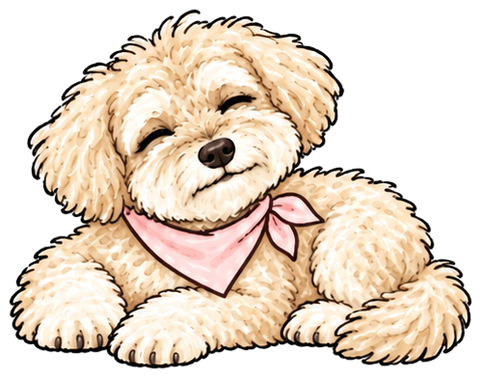
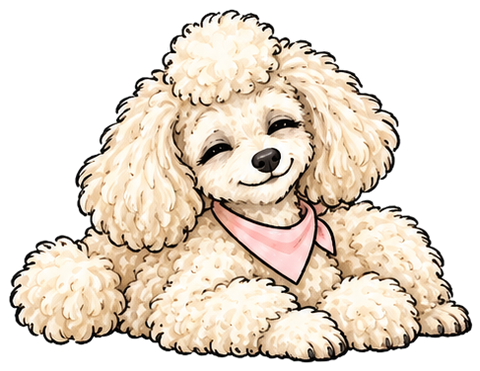
なかまを 12ひきに（トイプードルを かきなおし、ねこ・うさぎ・くま・パンダ・きつね・ハムスター・ひつじ・ぞう を たす）。いぬ いがいは しっぽの 文を つかわない

diff --git a/app.js b/app.js
@@ -30,6 +30,8 @@ function pic(src, emoji, cls = '', alt = '') {
   img.onerror = () => (window.__missing ||= []).push(src) && img.replaceWith(h('span', { class: cls + ' emoji', 'aria-hidden': 'true' }, emoji || '❓'));
   return img;
 }
+// いぬ いがいは しっぽの 文を つかわない
+const seeOf = (e) => (DOGS[S.dog].dog ? e.see : e.seeAny || e.see);
 const dogImg = (emo, cls = 'dog') => pic(`art/dogs/${DOGS[S.dog].id}_${emo}.png`, '🐶', cls, `${DOGS[S.dog].name}（${EMOTIONS.find((e) => e.id === emo)?.word || ''}）`);
 const itemImg = (it, cls = 'icon') => pic(`art/items/${it.id}.png`, it.emoji, cls, '');
 const avatarImg = (i, cls = 'avatar') => (i < 0 ? h('span', { class: cls + ' emoji' }, '🙂') : pic(`art/avatars/a${i}.png`, '🙂', cls, 'じぶん'));
@@ -248,13 +250,13 @@ ROUTES.title = () => {
     h('div', { class: 'hello' }, dogImg('happy', 'dog greet'),
       h('p', { class: 'bubble' }, `${name}こんにちは！ ${DOGS[S.dog].name}だよ。`, h('br'), 'きょうは なにを する？')),
     h('nav', { class: 'menu4' },
-      menuBtn('きもちを よもう', 'いぬの かおを みてみよう', 'tile_emotions', 'emotions', 'c1'),
+      menuBtn('きもちを よもう', 'なかまの かおを みてみよう', 'tile_emotions', 'emotions', 'c1'),
       menuBtn('れんしゅう しよう', 'びょういんや はいしゃ', 'tile_practice', 'scenes', 'c2'),
       menuBtn('じぶん ノート', 'すきな ことを かこう', 'tile_note', 'note', 'c3'),
       menuBtn('きょうの よてい', 'えで ならべよう', 'tile_plan', 'plan', 'c4')),
     h('div', { class: 'sub2' },
       h('button', { class: 'wide-card', onclick: () => go('shop') }, pic('art/ui/tile_shop.jpg', '', 'wide-img'), h('span', {}, h('b', {}, 'ショップ'), h('small', {}, 'スターで かえるよ'))),
-      h('button', { class: 'wide-card', onclick: () => go('dogs') }, dogImg('happy', 'wide-img dogface'), h('span', {}, h('b', {}, 'いぬを えらぶ'), h('small', {}, `いまは ${DOGS[S.dog].name}`)))),
+      h('button', { class: 'wide-card', onclick: () => go('dogs') }, dogImg('happy', 'wide-img dogface'), h('span', {}, h('b', {}, 'なかまを えらぶ'), h('small', {}, `いまは ${DOGS[S.dog].name}`)))),
     h('button', { class: 'parent-btn', ...hold }, ic('gear'), 'おうちの ひと・スタッフ', h('small', {}, '（ながおし）')));
 };
 function menuBtn(label, sub, tile, route, cls) {
@@ -273,9 +275,9 @@ function longPress(fn) {
   return { onpointerdown: start, onpointerup: stop, onpointerleave: stop, onpointercancel: stop, oncontextmenu: (e) => e.preventDefault() };
 }
 
-// ---------- いぬを えらぶ ----------
-ROUTES.dogs = () => h('div', { class: 'screen' }, bar('いぬを えらぶ'),
-  h('p', { class: 'lead' }, 'いっしょに れんしゅう する いぬを えらんでね。'),
+// ---------- なかまを えらぶ ----------
+ROUTES.dogs = () => h('div', { class: 'screen' }, bar('なかまを えらぶ'),
+  h('p', { class: 'lead' }, 'いっしょに れんしゅう する なかまを えらんでね。'),
   h('div', { class: 'grid2' }, DOGS.map((d, i) => h('button', {
     class: 'card pick' + (S.dog === i ? ' on' : ''), 'aria-pressed': S.dog === i ? 'true' : 'false',
     onclick: () => { S.dog = i; save(); chime('soft'); speak(`${d.name}だよ。よろしくね`); go('dogs', null, true); },
@@ -284,7 +286,7 @@ ROUTES.dogs = () => h('div', { class: 'screen' }, bar('いぬを えらぶ'),
 // ---------- きもちを よもう ----------
 ROUTES.emotions = () => h('div', { class: 'screen' }, bar('きもちを よもう'),
   h('div', { class: 'hello small' }, dogImg('calm', 'dog mid'),
-    h('p', { class: 'bubble' }, 'いぬの からだを よく みると、きもちの ヒントが あるよ。')),
+    h('p', { class: 'bubble' }, 'からだを よく みると、きもちの ヒントが あるよ。')),
   h('div', { class: 'grid2' },
     h('button', { class: 'card big-choice', onclick: () => go('emoList') }, pic('art/ui/tile_emotions.jpg', '', 'tile-img'), h('b', {}, 'きもちを みる'), h('small', {}, '6つの きもち')),
     h('button', { class: 'card big-choice', onclick: () => go('quiz') }, dogImg('surprised', 'dog mid'), h('b', {}, 'あてっこ'), h('small', {}, 'どの きもちかな？'))));
@@ -297,10 +299,10 @@ ROUTES.emoList = () => h('div', { class: 'screen' }, bar('きもちを みる'),
 ROUTES.emoDetail = (i) => {
   const e = EMOTIONS[i];
   if (!S.emoSeen.includes(i)) { S.emoSeen.push(i); S.emoSeen.sort((a, b) => a - b); setTimeout(() => { award(1); plusToast(1); }, 400); }
-  setTimeout(() => speak(`${e.word}。${e.see}`), 300);
+  setTimeout(() => speak(`${e.word}。${seeOf(e)}`), 300);
   return h('div', { class: 'screen' }, bar(e.word),
     h('div', { class: 'emo-hero', style: `--c:${e.color}` }, dogImg(e.id, 'dog big'), h('h2', { class: 'emo-word' }, e.word)),
-    h('section', { class: 'panel' }, h('h3', {}, ic('eye'), 'ここを みてね'), h('p', {}, e.see), sayBtn(`${e.word}。${e.see}`)),
+    h('section', { class: 'panel' }, h('h3', {}, ic('eye'), 'ここを みてね'), h('p', {}, seeOf(e)), sayBtn(`${e.word}。${seeOf(e)}`)),
     h('section', { class: 'panel soft' }, h('h3', {}, ic('bulb'), 'こんな ときは'), h('p', {}, e.tip), sayBtn(e.tip)),
     h('div', { class: 'row between pager' },
       h('button', { class: 'btn', disabled: i === 0, onclick: () => go('emoDetail', i - 1, true) }, '← まえ'),
@@ -338,7 +340,7 @@ ROUTES.quiz = () => {
           btns.forEach((b) => (b.disabled = true));
           ev.currentTarget.classList.add('right');
           hint.hidden = false; hint.className = 'hint good';
-          hint.textContent = `せいかい！ ${EMOTIONS[ans].word} だね。${EMOTIONS[ans].see}`;
+          hint.textContent = `せいかい！ ${EMOTIONS[ans].word} だね。${seeOf(EMOTIONS[ans])}`;
           speak(`せいかい。${EMOTIONS[ans].word} だね`);
           if (stars) setTimeout(() => { award(stars); plusToast(stars); }, 300);
           nextBtn.hidden = false;
@@ -346,7 +348,7 @@ ROUTES.quiz = () => {
           tries++;
           ev.currentTarget.disabled = true; ev.currentTarget.classList.add('dim');
           hint.hidden = false; hint.className = 'hint';
-          hint.textContent = `もう いちど みて みよう。${EMOTIONS[ans].see.split('。')[0]}。`;
+          hint.textContent = `もう いちど みて みよう。${seeOf(EMOTIONS[ans]).split('。')[0]}。`;
           speak(hint.textContent);
         }
       },
@@ -354,7 +356,7 @@ ROUTES.quiz = () => {
     box.replaceChildren(
       h('p', { class: 'count' }, `${k + 1} / ${order.length}`),
       h('div', { class: 'emo-hero plain' }, dogImg(EMOTIONS[ans].id, 'dog big')),
-      h('p', { class: 'q' }, 'この いぬは どんな きもち かな？'),
+      h('p', { class: 'q' }, `${DOGS[S.dog].name}は どんな きもち かな？`),
       h('div', { class: 'answers' }, btns), hint, nextBtn);
   };
   next();

diff --git a/data.js b/data.js
@@ -1,19 +1,31 @@
 // 文はぜんぶ ひらがな＋わかちがき。たとえ話・皮肉は つかわない（docs/spec.md「守ること」）。
 
+// いっしょに れんしゅう する なかま。art/dogs/<id>_<きもち>.png。dog: true は いぬ（しっぽの 文を つかう）。
+// 2026-10-26 代表「どうぶつを たくさん ふやして」。ならびは あとに たすだけ（ほぞん した 番号が ずれない ように）。
 export const DOGS = [
-  { id: 'molly', name: 'モリー', kind: 'シュナウザー' },
-  { id: 'shiba', name: 'こむぎ', kind: 'しばいぬ' },
-  { id: 'poodle', name: 'ミルク', kind: 'トイプードル' },
-  { id: 'dachs', name: 'ココア', kind: 'ダックスフンド' },
+  { id: 'molly', name: 'モリー', kind: 'シュナウザー', dog: true },
+  { id: 'shiba', name: 'こむぎ', kind: 'しばいぬ', dog: true },
+  { id: 'poodle', name: 'ミルク', kind: 'トイプードル', dog: true },
+  { id: 'dachs', name: 'ココア', kind: 'ダックスフンド', dog: true },
+  { id: 'cat', name: 'ミケ', kind: 'ねこ' },
+  { id: 'rabbit', name: 'ユキ', kind: 'うさぎ' },
+  { id: 'bear', name: 'くるみ', kind: 'くま' },
+  { id: 'panda', name: 'ササ', kind: 'パンダ' },
+  { id: 'fox', name: 'コン', kind: 'きつね' },
+  { id: 'hamster', name: 'ひまわり', kind: 'ハムスター' },
+  { id: 'sheep', name: 'モコ', kind: 'ひつじ' },
+  { id: 'elephant', name: 'パオ', kind: 'ぞう' },
 ];
 
-// see = からだの どこを みれば わかるか / tip = その きもちの ときに できること
+// see = からだの どこを みれば わかるか（いぬ）。seeAny = いぬ いがいの なかま（しっぽの 文を つかわない） / tip = その きもちの ときに できること
 export const EMOTIONS = [
   { id: 'happy', word: 'うれしい', color: '#f4b942',
     see: 'しっぽを ふって いるよ。くちが にこっと あいて いるよ。',
+    seeAny: 'くちが にこっと あいて いるよ。めが きらきら して、からだが はずんで いるよ。',
     tip: 'うれしい ときは 「うれしい！」と いって いいよ。' },
   { id: 'scared', word: 'こわい', color: '#8a9bd6',
     see: 'みみが うしろに ぺたんと して いるよ。しっぽを あしの あいだに いれて、からだを ちいさく して いるよ。',
+    seeAny: 'みみが うしろに ぺたんと して いるよ。からだを ちいさく して、めが まるく なって いるよ。',
     tip: 'こわい ときは、おとなに 「こわい」と いって いいよ。てを つないで もらおう。' },
   { id: 'iya', word: 'いや', color: '#e07a5f',
     see: 'かおを よこに むけて いるよ。まえあしを まえに だして いるよ。',

diff --git a/style.css b/style.css
@@ -123,7 +123,7 @@ span.dog { font-size: 64px; }
 .wide-card .wide-img { width: 56px; height: 56px; border-radius: 14px; object-fit: cover; flex: none; background: #fbf6ec; }
 .wide-card .dogface { object-fit: contain; }
 .wide-card span { display: flex; flex-direction: column; line-height: 1.3; }
-.wide-card b { font-size: .92em; color: var(--sage-dd); white-space: nowrap; }
+.wide-card b { font-size: .92em; color: var(--sage-dd); word-break: keep-all; overflow-wrap: normal; }
 .wide-card small { font-size: .74em; color: var(--muted); }
 .parent-btn { align-self: center; display: inline-flex; align-items: center; gap: 6px; margin-top: 2px; background: none; border: 0; color: var(--muted); font-size: .84em; padding: 10px 14px; min-height: 48px; border-radius: 999px; position: relative; }
 .parent-btn small { margin-left: 2px; }

diff --git a/sw.js b/sw.js
@@ -1,6 +1,6 @@
 // 一度 ひらいた 画面と 絵を ためて、電波が なくても つかえる ように する。
 // ページ本体は ネットを 先に（あたらしい 版を すぐ とどける）、絵は ためた 物を 先に。
-const CACHE = 'anshin-pocket-v6';
+const CACHE = 'anshin-pocket-v7';
 const CORE = ['./', 'index.html', 'style.css', 'app.js', 'data.js', 'save.js', 'manifest.webmanifest', 'icon-192.png'];
 
 self.addEventListener('install', (e) => {

diff --git a/tools/gen_art.py b/tools/gen_art.py
@@ -12,6 +12,19 @@ STYLE = ('Style exactly like the reference image: black brush-pen lines with lig
 DOG = ('Draw ONE character sheet: 6 panels in a 2-column x 3-row grid with the SAME 6 poses and emotions, in the same order, '
        'as the reference sheet (happy, scared, dislikes it, sad, surprised, calm). Whole dog in each panel, fully inside it, '
        'wide white gaps between panels, no panel borders, no ground shadows, no motion lines. The dog is {d}. ' + STYLE)
+# 2026-10-26 代表「トイプードルがモリーの色違いなだけ。動物をたくさん増やして」。
+# 見本の表は 絵の描き方と 6つの並びだけに使い、からだの形は まねさせない。
+ANIMAL = ('Draw ONE character sheet: 6 panels in a 2-column x 3-row grid, wide white gaps between panels, no panel borders, '
+          'no ground shadows, no motion lines. The character is {d}. It must look clearly and unmistakably like that animal with its own '
+          'body shape, face, ears and tail. Do NOT copy the reference dog\'s shape, fur, face or poses: the reference is ONLY for the '
+          'drawing style and the 2x3 layout. The whole animal in each panel, fully inside it, facing the viewer at three-quarter view. '
+          'Emotions must be very clear through BODY LANGUAGE so a young child can tell them apart, in this order (left to right, top to bottom): '
+          '1 HAPPY: big open smile, bright eyes, bouncy posture, tail up if it has one. '
+          '2 SCARED: ears flat back, body crouched small, eyes wide, leaning away. '
+          '3 DISLIKES IT / NO THANK YOU: head turned away, one front paw raised as if pushing away, mouth closed tight. '
+          '4 SAD: head low, ears drooping, eyes looking down. '
+          '5 SURPRISED: eyes very round, ears straight up, mouth a small O, body slightly jumped back. '
+          '6 CALM / RELAXED: lying down comfortably, eyes half closed, gentle smile. ' + STYLE)
 CHILD = ('the same child in every panel: about 7 years old, short dark hair, yellow T-shirt and navy shorts, gender-neutral')
 SCENE = ('Draw ONE image: 6 separate vignette illustrations in a 2-column x 3-row grid, each vignette a rounded rectangle '
          'with its own soft pale background, wide pure white gutters between them, all the same size. ' + CHILD + '. '
@@ -39,7 +52,18 @@ JOBS = {
         'home screen. Black brush-pen lines with soft watercolor. No text, no letters, no rounded corners, no border.'),
     'dog_shiba': ('ref_sheet', DOG.format(d='a Shiba Inu with red-orange and cream coat, curled tail, wearing a pale coral bandana')),
     'dog_poodle': ('ref_sheet', DOG.format(d='a cream-colored Toy Poodle with curly fur, wearing a pale pink bandana')),
-    'dog_dachs': ('ref_sheet', DOG.format(d='a chocolate-and-tan Miniature Dachshund with long ears, wearing a pale yellow bandana')),
+    'animal_poodle': ('ref_sheet', ANIMAL.format(d='a fluffy cream-white Toy Poodle (a different breed from the reference): tightly curled fur, '
+        'a round pom-pom topknot on top of the head, long round fluffy ears, a short tail ending in a round pom-pom, slim legs with fluffy '
+        'pom-pom cuffs at the ankles, a slim face with a clipped muzzle, wearing a pale pink bandana')),
+    'animal_cat': ('ref_sheet', ANIMAL.format(d='a calico cat (white with orange and black patches), pointed ears, long thin tail, whiskers, wearing a pale lavender bandana')),
+    'animal_rabbit': ('ref_sheet', ANIMAL.format(d='a white rabbit with long upright ears with pink insides, a small round fluffy tail, wearing a pale sky-blue bandana')),
+    'animal_bear': ('ref_sheet', ANIMAL.format(d='a brown bear cub with small round ears and a light tan muzzle, wearing a pale orange bandana')),
+    'animal_panda': ('ref_sheet', ANIMAL.format(d='a giant panda cub (black and white, black eye patches, round black ears), wearing a pale mint bandana')),
+    'animal_fox': ('ref_sheet', ANIMAL.format(d='a red fox cub with big pointed ears, a white chest and a big fluffy white-tipped tail, wearing a pale yellow bandana')),
+    'animal_hamster': ('ref_sheet', ANIMAL.format(d='a golden hamster with chubby round cheeks, tiny round ears and a white belly, wearing a tiny pale red bandana')),
+    'animal_sheep': ('ref_sheet', ANIMAL.format(d='a fluffy white lamb with a soft black face, black legs and floppy ears, wearing a pale green bandana')),
+    'animal_elephant': ('ref_sheet', ANIMAL.format(d='a small grey baby elephant with big floppy ears, a short trunk and a thin tail, wearing a pale peach bandana')),
+    'dog_dachs':('ref_sheet', DOG.format(d='a chocolate-and-tan Miniature Dachshund with long ears, wearing a pale yellow bandana')),
     'scene_hospital': ('ref', SCENE.format(p='1 a parent hands a card at a clinic reception desk, the child stands beside; '
         '2 the child sits in a waiting room holding a small plush toy; 3 a nurse at a door calls, the child raises a hand; '
         '4 the child enters a doctor\'s exam room and bows to a kind doctor; 5 the doctor listens to the child\'s chest with a stethoscope; '
